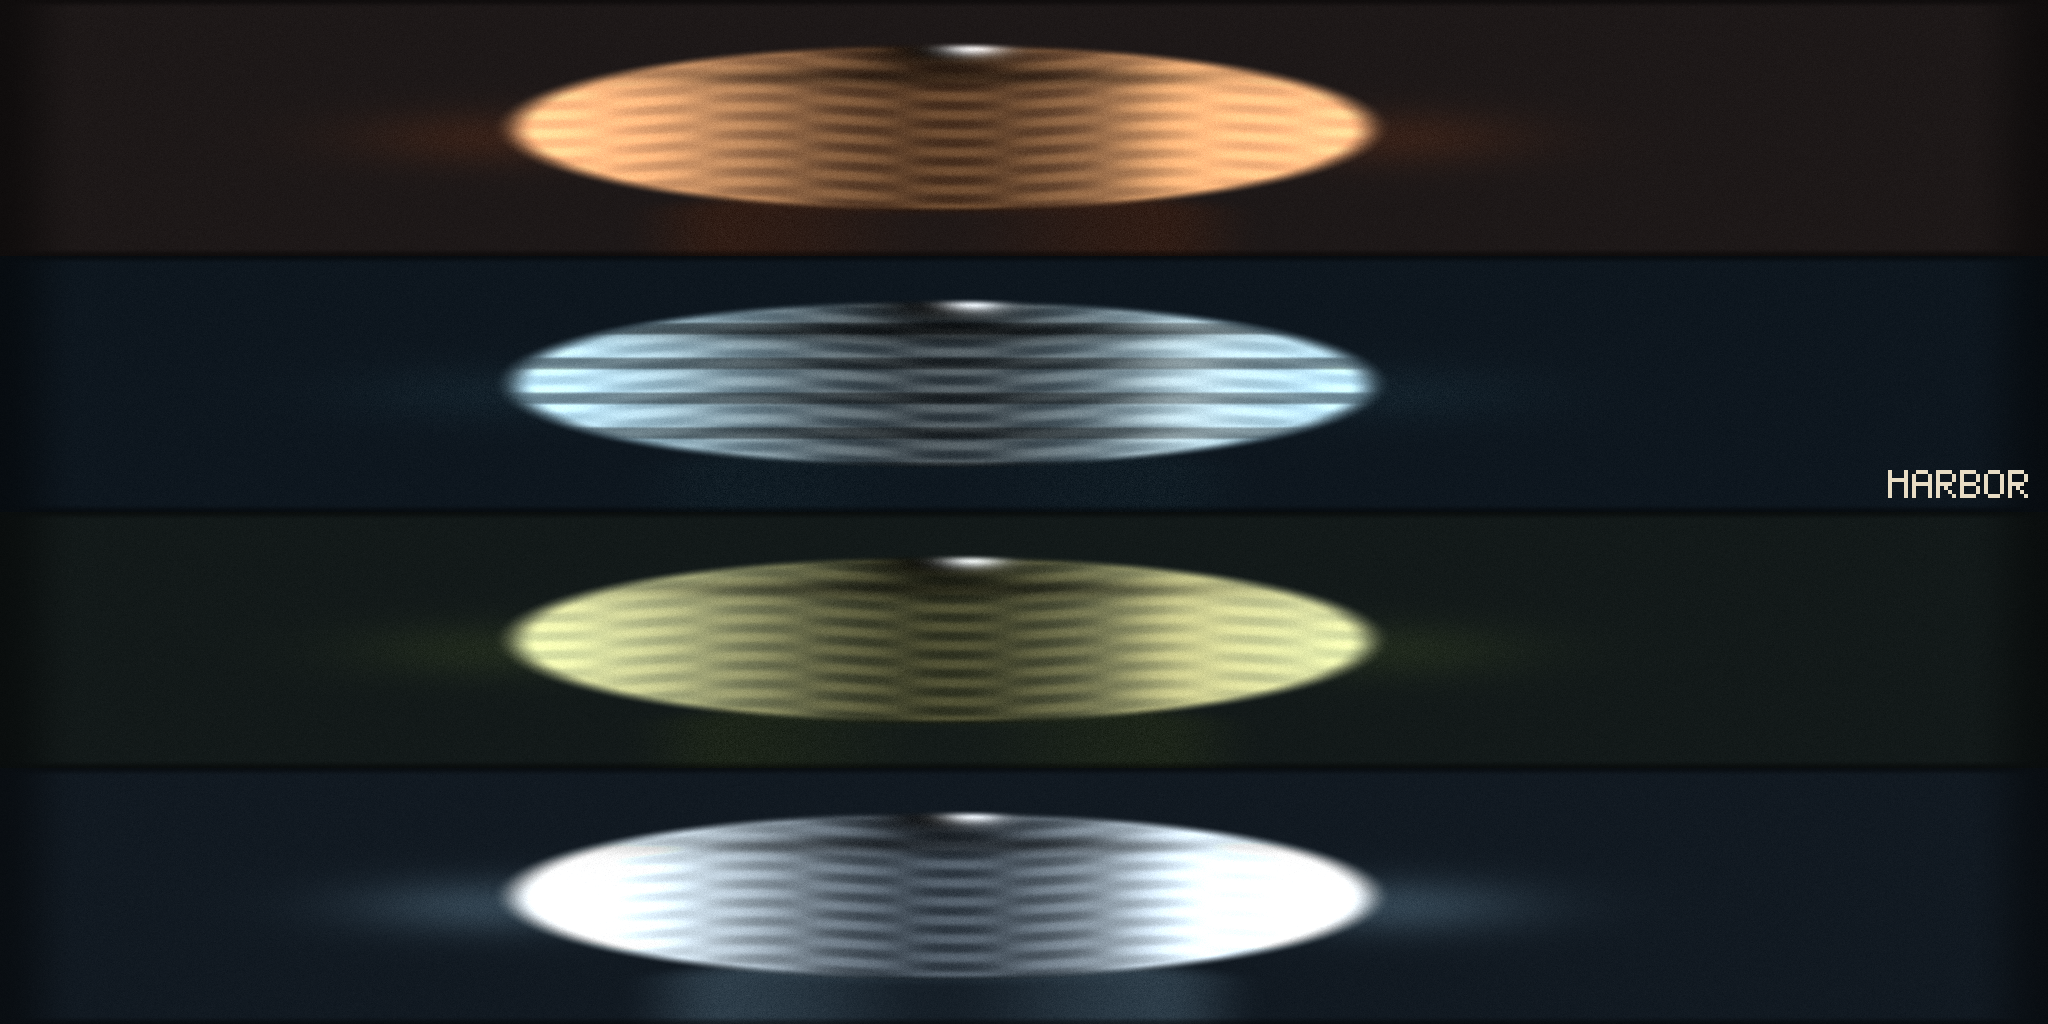
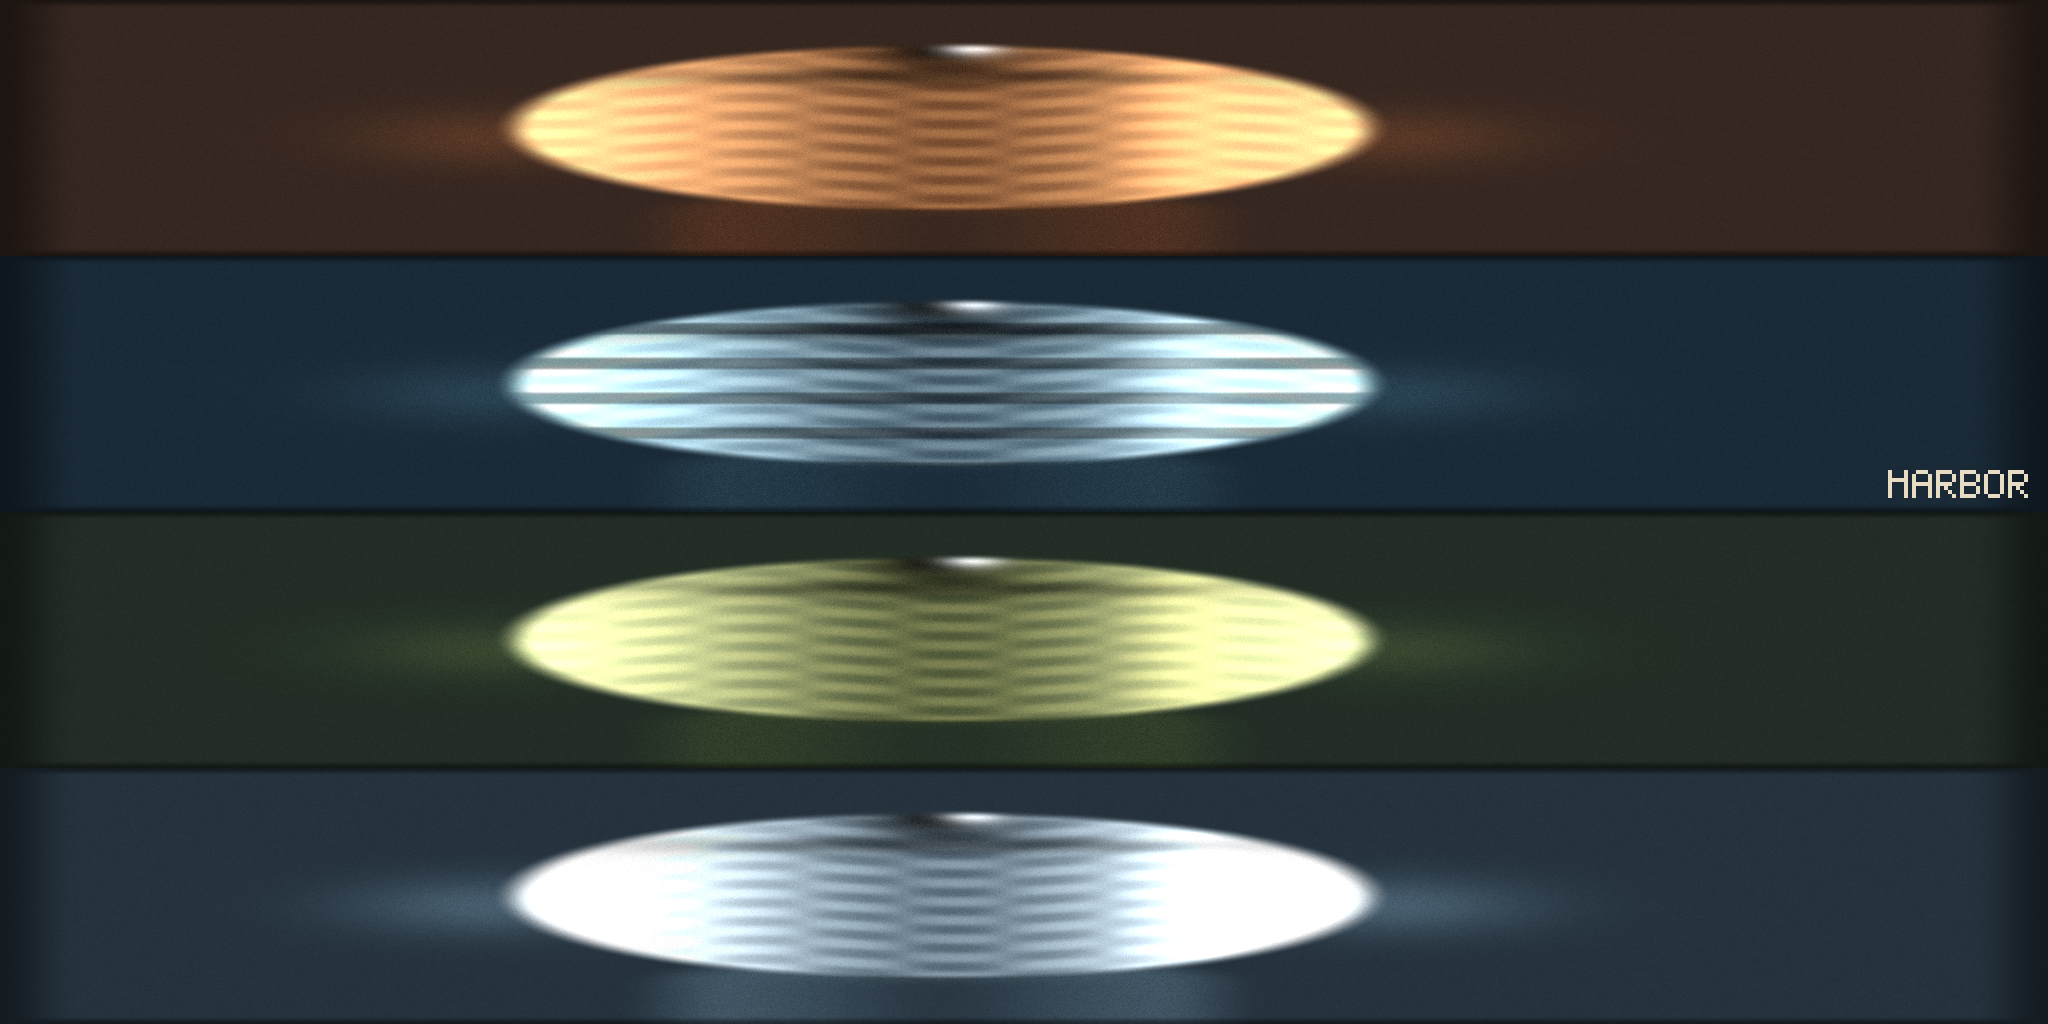
Harbor: run painters across open water to the coping
Berths sit a couple of metres off the quay so the lines sag across
the basin instead of standing up beside the hulls. Fish skins are
lighter overhead, and the two schools sit high enough for the atlas
to read.

diff --git a/harbor/craft.js b/harbor/craft.js
@@ -239,9 +239,6 @@ export function installHarborCraft(deps) {
   // Coping horn, same station as the BatchedMesh cleats (batch.js).
   const QUAY_CLEAT_Y = faceTop + 0.1 + 0.09;
   const QUAY_CLEAT_Z = SEAWALL_Z + 0.04;
-  // Water edge of the coping stone. Painters rise to this lip, then to the horn,
-  // so the line meets the pier edge instead of passing through the wall.
-  const QUAY_COPE_EDGE_Z = QUAY_CLEAT_Z + 0.19;
   const QUAY_CLEATS = [];
   for (let i = 0; i < 13; i++) QUAY_CLEATS.push(-9.6 + i * 1.6);
   const quayCleatUsed = new Set();
@@ -542,8 +539,9 @@ export function installHarborCraft(deps) {
     };
   }
 
-  // Berth so the inboard gunwale sits just off the seawall toe, in the water.
-  const berthZ = (beam) => 6.18 + beam * 0.5;
+  // Alongside, a couple of metres off the coping, so the painter runs
+  // across the water to the cleat instead of standing up like a pile.
+  const berthZ = (beam) => 8.05 + beam * 0.5;
   const HARBOR_BOAT_DEFS = [
     {
       id: 'west-pram', kind: 'pram', mark: '',
@@ -708,13 +706,13 @@ export function installHarborCraft(deps) {
     // One loose school in the deeper basin, clear of the quay berths.
     ...harborRibbon({
       cx: -1.6, cz: 18.4, rx: 2.15, rz: 0.82, speed: 0.16,
-      phase: 0.5, count: 4, spread: 0.52, lag: 0.7, scale: 0.62,
+      phase: 0.5, count: 4, spread: 0.62, lag: 0.7, scale: 0.92,
       depth: 0.016, skin0: 0,
     }),
     // A second, smaller school farther out and a little deeper.
     ...harborRibbon({
       cx: 5.2, cz: 23.2, rx: 1.65, rz: 0.95, speed: 0.11,
-      phase: 1.9, count: 3, spread: 0.58, lag: 0.85, scale: 0.74,
+      phase: 1.9, count: 3, spread: 0.7, lag: 0.85, scale: 1.05,
       depth: 0.024, skin0: 2, nose: -0.04,
     }),
   ];
@@ -736,8 +734,8 @@ export function installHarborCraft(deps) {
     map: fishPlaceholder,
     roughness: 0.58,
     metalness: 0.16,
-    emissive: 0x0c1218,
-    emissiveIntensity: 0.12,
+    emissive: 0x1a2834,
+    emissiveIntensity: 0.28,
     vertexColors: true,
     side: THREE.DoubleSide,
   });
@@ -777,7 +775,7 @@ export function installHarborCraft(deps) {
   if (harborFishMesh.instanceColor) harborFishMesh.instanceColor.needsUpdate = true;
   harborCraftRoot.add(harborFishMesh);
   if (atlasLoader && atlasBase) {
-    atlasLoader.load(new URL('fish-atlas.png', atlasBase).href, (tex) => {
+    atlasLoader.load(new URL('fish-atlas.png?craft=2', atlasBase).href, (tex) => {
       tex.colorSpace = THREE.SRGBColorSpace;
       tex.anisotropy = 8;
       tex.wrapS = THREE.ClampToEdgeWrapping;
@@ -852,10 +850,11 @@ export function installHarborCraft(deps) {
       for (let p = 0; p < boat.painters.length; p++) {
         const painter = boat.painters[p];
         harborA.copy(painter.local).applyMatrix4(boat.group.matrixWorld);
-        harborB.set(painter.cleat.x, painter.cleat.y, QUAY_COPE_EDGE_Z + 0.03);
-        harborC.copy(painter.cleat);
-        harborSpan(painter.ropeA, harborA, harborB, 0.016);
-        harborSpan(painter.ropeB, harborB, harborC, 0.016);
+        harborB.copy(painter.cleat);
+        harborC.copy(harborA).lerp(harborB, 0.55);
+        harborC.y = Math.max(-0.08, Math.min(harborA.y, harborB.y) - 0.02);
+        harborSpan(painter.ropeA, harborA, harborC, 0.016);
+        harborSpan(painter.ropeB, harborC, harborB, 0.016);
       }
     }
   }
@@ -927,8 +926,8 @@ export function installHarborCraft(deps) {
       const ahead = harborClearCraft(harborFishAt(f, t + 0.12).x, harborFishAt(f, t + 0.12).z);
       const x = now.x;
       const z = now.z;
-      // Fewer schools, out in the basin. The belly tucks under; the back stays readable.
-      const y = harborWaveY(x, z, t) + 0.02 - f.depth * 0.35 + Math.sin(t * 0.55 + f.phase) * 0.004;
+      // Fewer schools, farther out. High enough that the back and atlas read above the sheet.
+      const y = harborWaveY(x, z, t) + 0.07 - f.depth * 0.25 + Math.sin(t * 0.55 + f.phase) * 0.004;
       const fwd = harborA.set(ahead.x - x, 0, ahead.z - z);
       if (fwd.lengthSq() < 1e-8) fwd.set(Math.cos(f.phase), 0, Math.sin(f.phase));
       else fwd.normalize();
@@ -973,7 +972,7 @@ export function installHarborCraft(deps) {
         return {
           x: +p.x.toFixed(2),
           z: +p.z.toFixed(2),
-          y: +(harborWaveY(p.x, p.z, t) + 0.02 - f.depth * 0.35).toFixed(3),
+          y: +(harborWaveY(p.x, p.z, t) + 0.07 - f.depth * 0.25).toFixed(3),
           skin: f.skin,
         };
       });
@@ -1037,15 +1036,15 @@ export function installHarborCraft(deps) {
       camera.position.set(-2.4, 2.6, 16.05);
       controls.target.set(-1.5, -0.32, 18.5);
     } else if (mode === 'fish-top') {
-      camera.position.set(-1.6, 5.2, 18.44);
-      controls.target.set(-1.6, -0.4, 18.4);
+      camera.position.set(-1.5, 3.4, 18.46);
+      controls.target.set(-1.5, -0.36, 18.35);
     } else if (mode === 'above' || mode === 'lineup') {
-      camera.position.set(-0.4, 8.2, 16.8);
-      controls.target.set(0.2, 0.05, 6.5);
+      camera.position.set(-0.6, 10.4, 19.2);
+      controls.target.set(0.3, 0.0, 8.2);
     } else if (mode === 'moor') {
-      // Along the berth, so painters read between the hulls and the coping.
-      camera.position.set(-12.4, 2.15, 8.6);
-      controls.target.set(-3.2, 0.42, 6.15);
+      // Along the berth, so painters read across the water to the coping.
+      camera.position.set(-12.6, 2.6, 12.4);
+      controls.target.set(-2.2, 0.2, 7.4);
     } else if (mode === 'skiff-top') top('quay-skiff', 4.6);
     else if (mode === 'launch-top') top('harbor-launch', 6.4);
     else if (mode === 'tender-top') top('basin-tender', 3.8);

diff --git a/06-intermediate-assets/gen-fish-atlas.py b/06-intermediate-assets/gen-fish-atlas.py
@@ -103,29 +103,29 @@ def paint_species(rng, kind):
     v = 1.0 - (yy / (ROW_H - 1))
 
     if kind == 0:
-        back = np.array([28, 40, 52], np.float32)
-        flank = np.array([168, 184, 196], np.float32)
-        belly = np.array([214, 214, 206], np.float32)
-        fin = np.array([46, 62, 74], np.float32)
-        accent = np.array([186, 198, 210], np.float32)
+        back = np.array([86, 112, 132], np.float32)
+        flank = np.array([188, 204, 214], np.float32)
+        belly = np.array([226, 226, 216], np.float32)
+        fin = np.array([64, 84, 98], np.float32)
+        accent = np.array([214, 224, 232], np.float32)
     elif kind == 1:
-        back = np.array([32, 40, 28], np.float32)
-        flank = np.array([112, 122, 86], np.float32)
-        belly = np.array([196, 190, 160], np.float32)
-        fin = np.array([28, 36, 24], np.float32)
-        accent = np.array([168, 154, 96], np.float32)
+        back = np.array([78, 96, 62], np.float32)
+        flank = np.array([142, 154, 108], np.float32)
+        belly = np.array([210, 204, 170], np.float32)
+        fin = np.array([48, 62, 40], np.float32)
+        accent = np.array([196, 180, 112], np.float32)
     elif kind == 2:
-        back = np.array([18, 32, 44], np.float32)
-        flank = np.array([72, 108, 128], np.float32)
-        belly = np.array([198, 206, 204], np.float32)
-        fin = np.array([16, 28, 36], np.float32)
-        accent = np.array([210, 214, 208], np.float32)
+        back = np.array([52, 86, 112], np.float32)
+        flank = np.array([108, 150, 168], np.float32)
+        belly = np.array([214, 222, 218], np.float32)
+        fin = np.array([36, 58, 72], np.float32)
+        accent = np.array([220, 226, 220], np.float32)
     else:
-        back = np.array([62, 36, 24], np.float32)
-        flank = np.array([148, 96, 62], np.float32)
-        belly = np.array([214, 186, 150], np.float32)
-        fin = np.array([48, 28, 20], np.float32)
-        accent = np.array([196, 150, 96], np.float32)
+        back = np.array([132, 78, 48], np.float32)
+        flank = np.array([176, 118, 74], np.float32)
+        belly = np.array([226, 196, 156], np.float32)
+        fin = np.array([78, 48, 32], np.float32)
+        accent = np.array([220, 168, 108], np.float32)
 
     water = back * 0.35 + np.array([8, 12, 16], np.float32)
 
